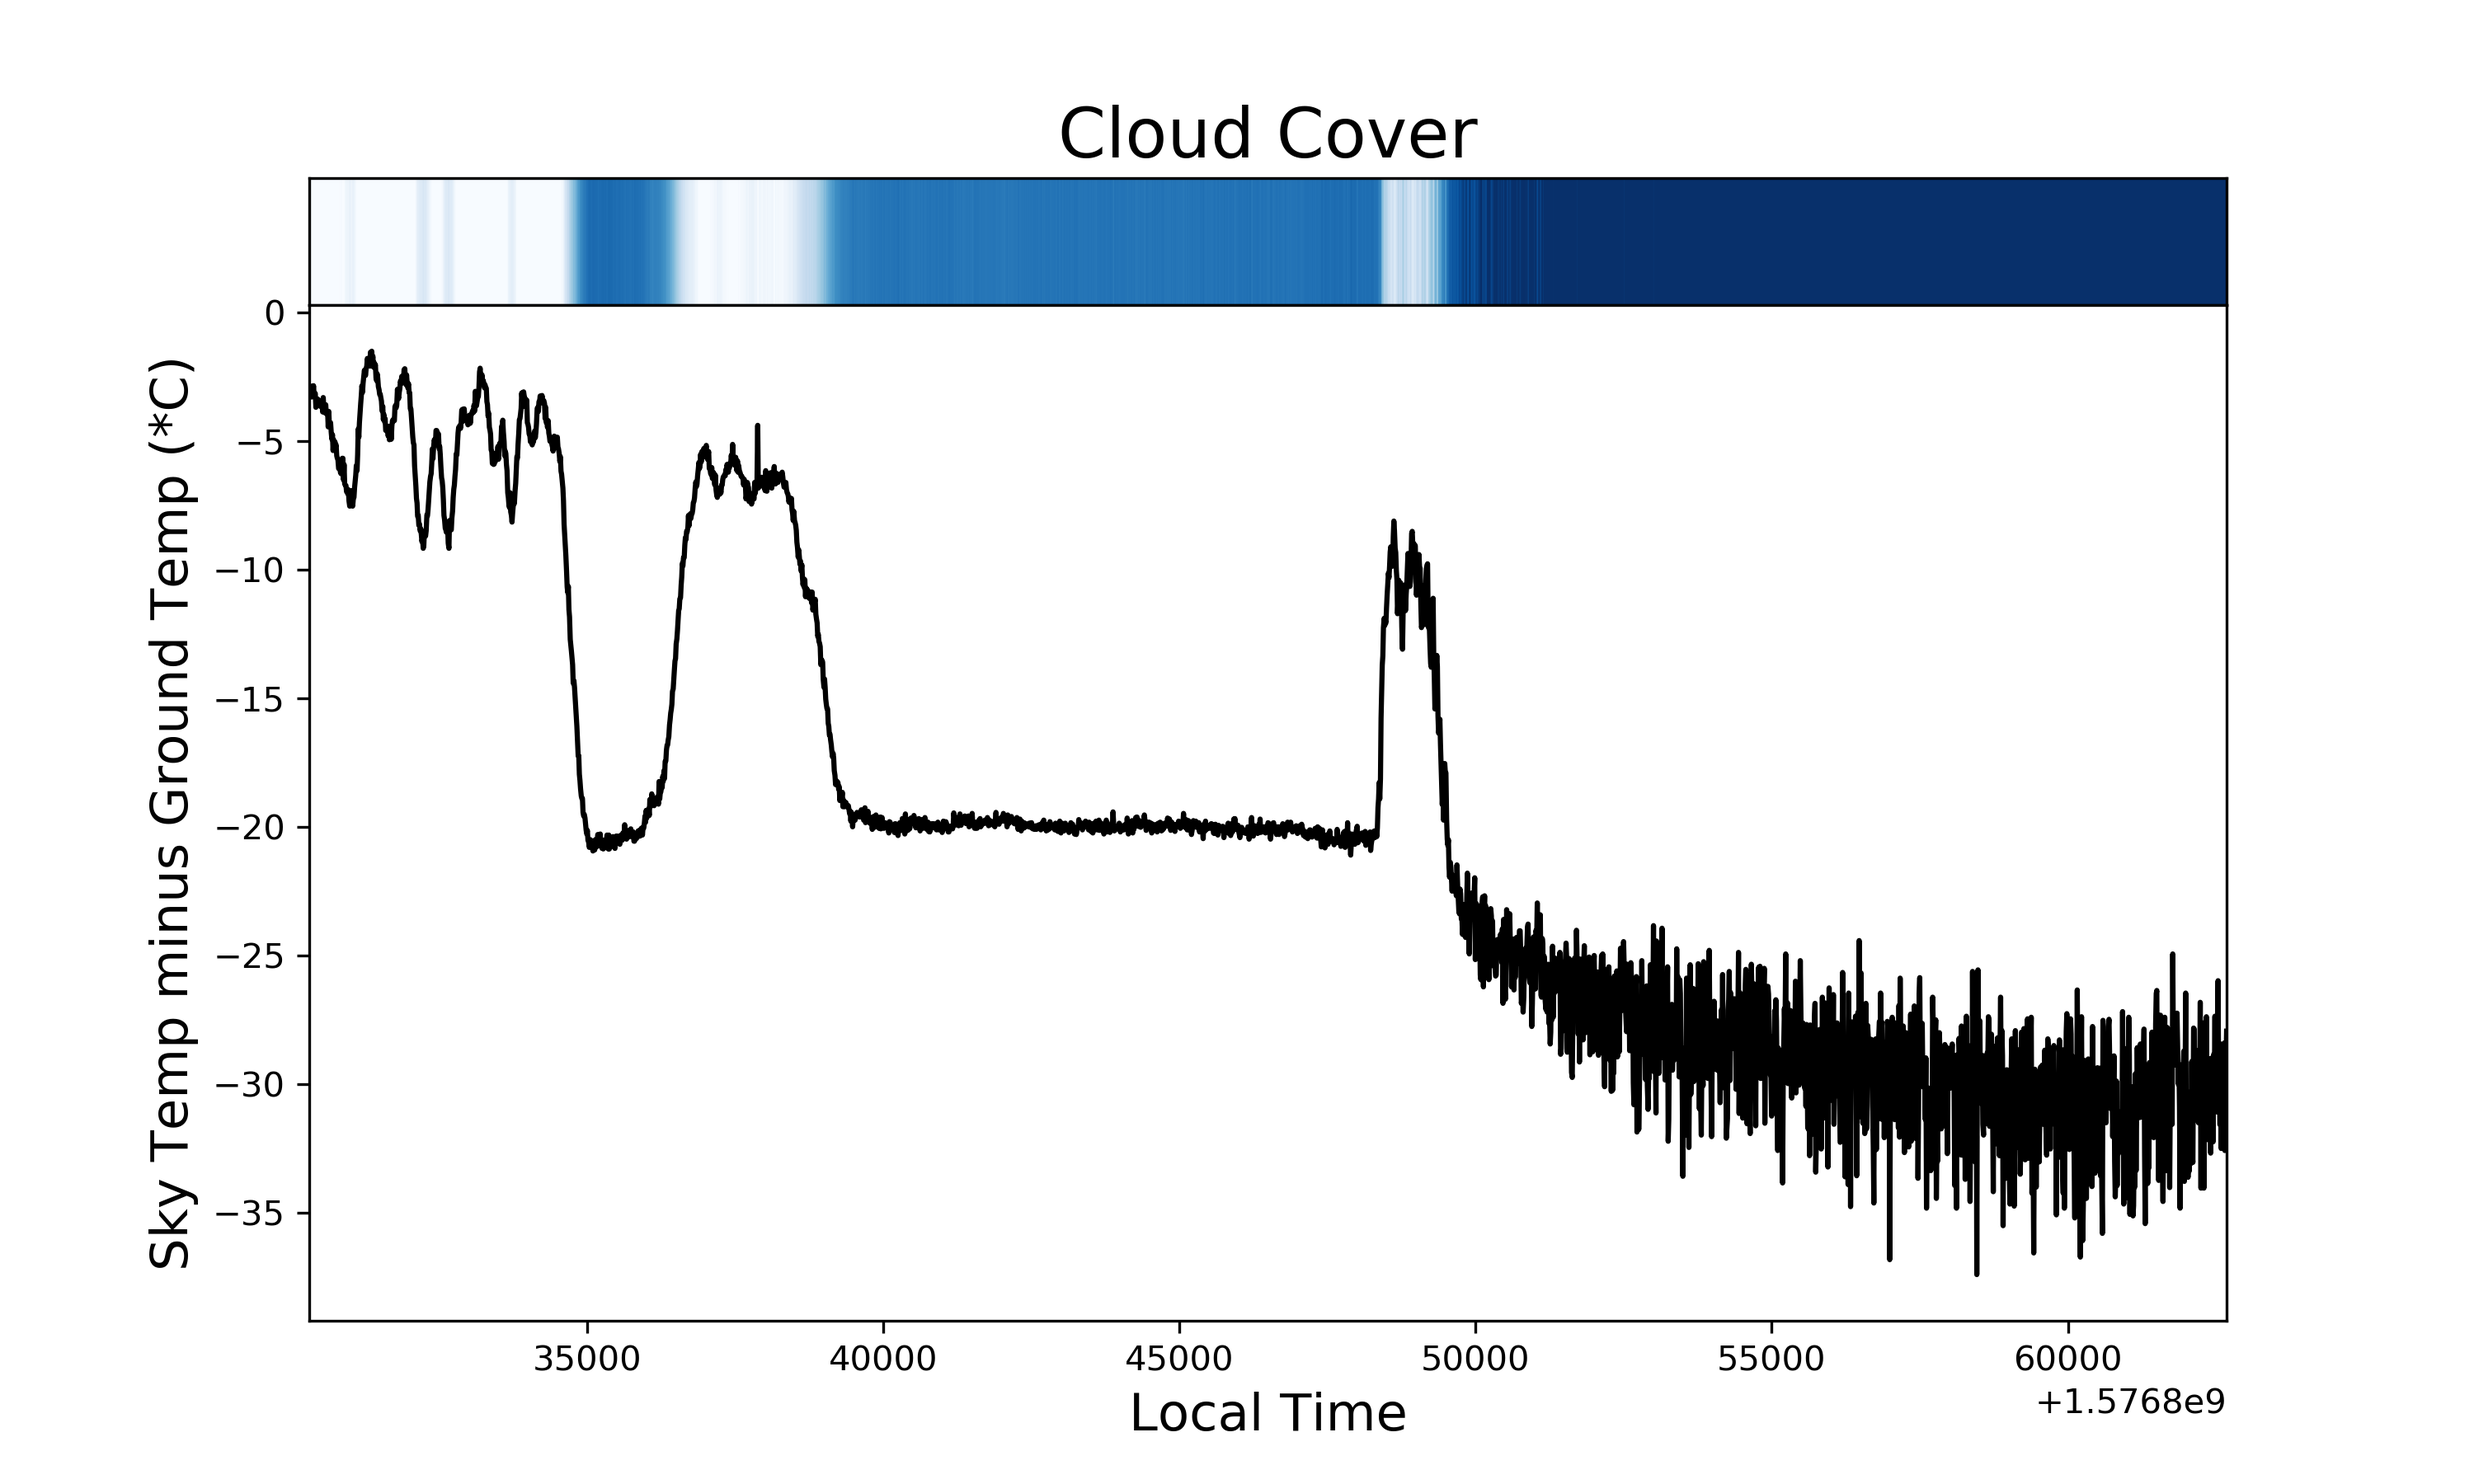
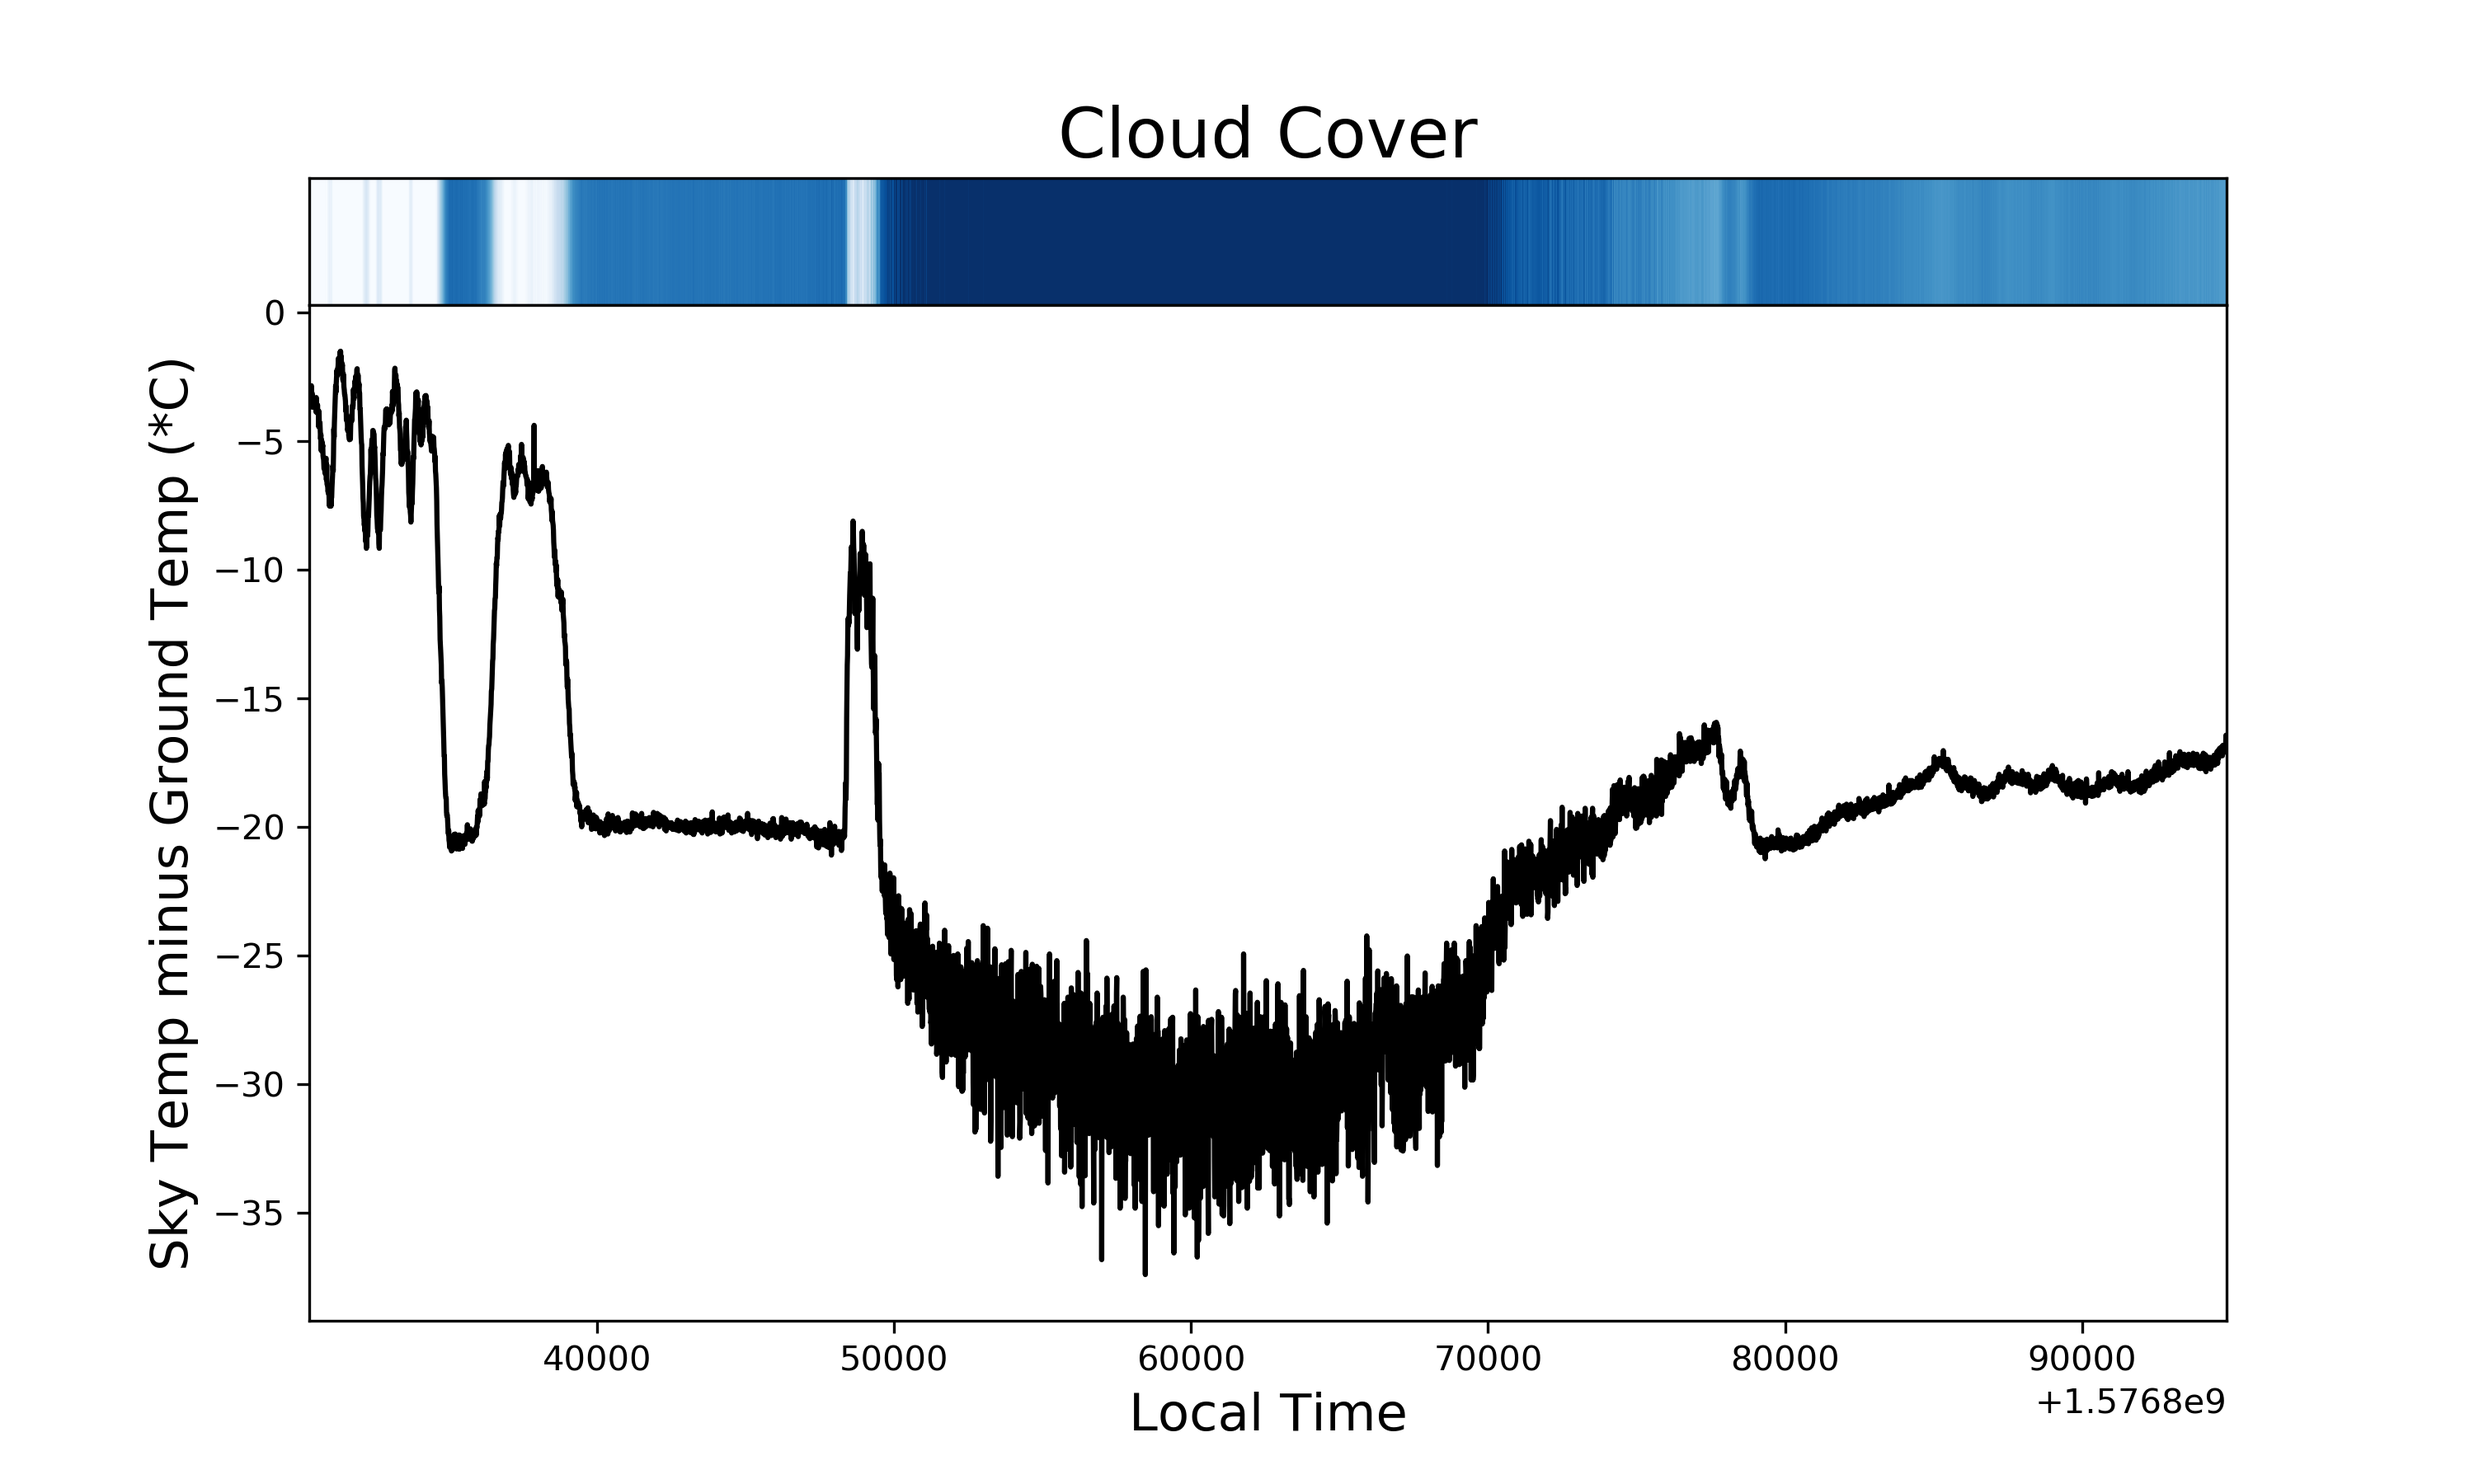
Update plotting

diff --git a/plottingtest.py b/plottingtest.py
@@ -39,7 +39,7 @@ gs1 = gridspec.GridSpec(2, 1, width_ratios=[1], height_ratios=[1,8])
 gs1.update(wspace=0.025, hspace=0.0) # set the spacing between axes. 
 
 ax0 = plt.subplot(gs1[0])
-ax0.pcolorfast(block, cmap='Blues_r', vmin=-25, vmax=-6)
+ax0.pcolorfast(block, cmap='Blues_r', vmin=-27, vmax=-15)
 
 ax0.set_xticklabels([])
 ax0.set_xticks([])
